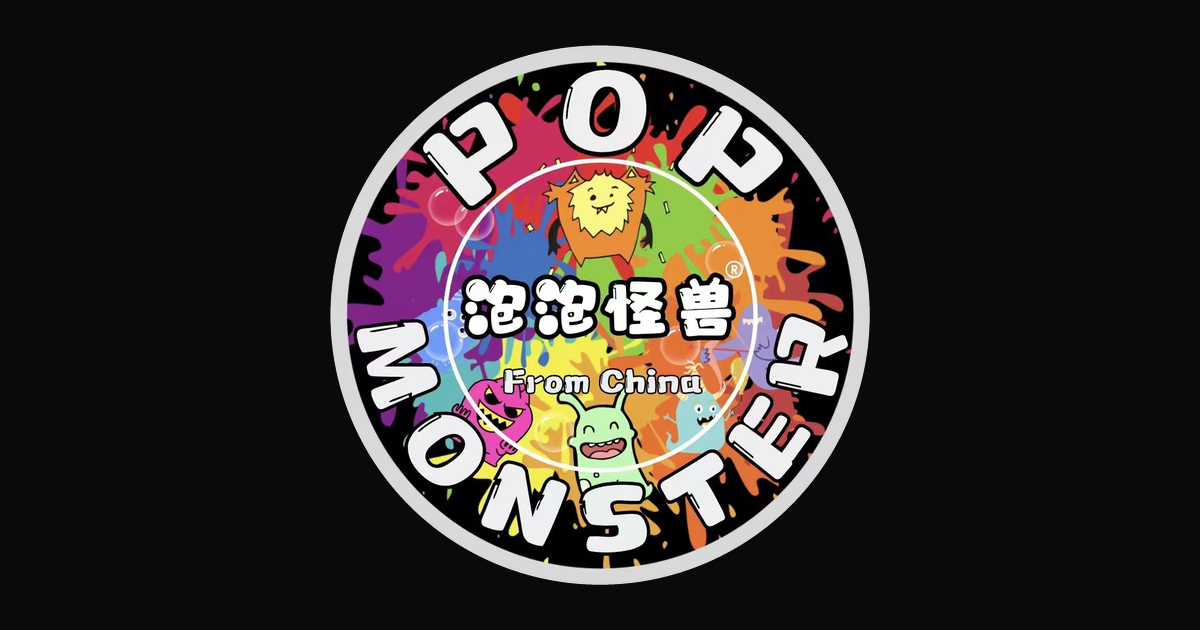
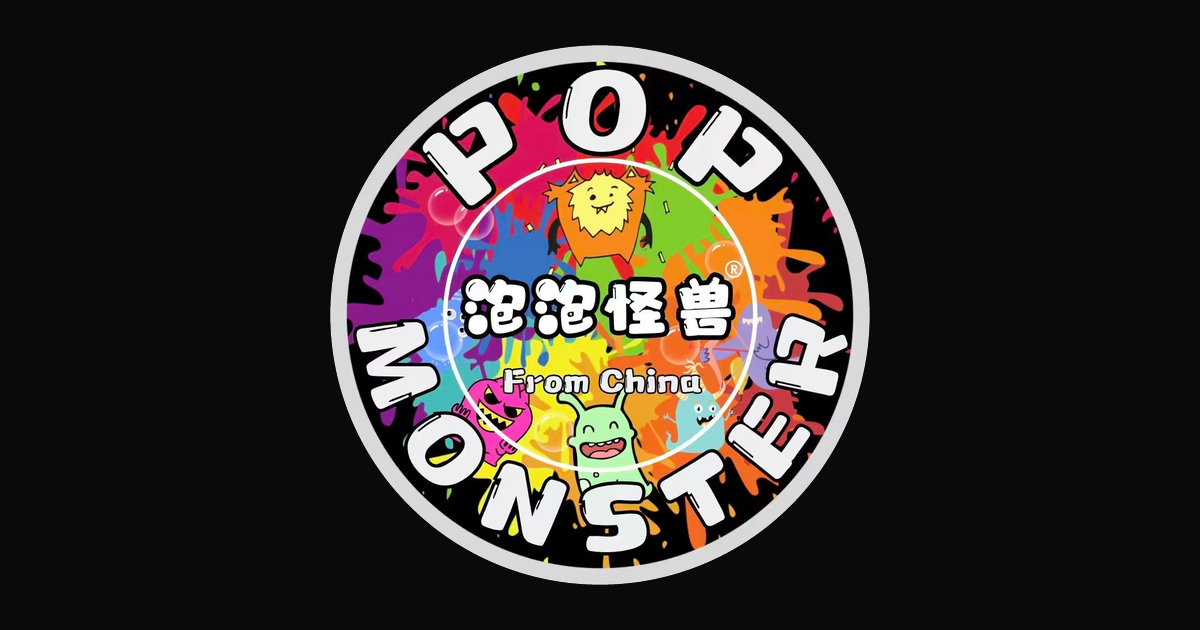
分享預覽圖：原圖顏色從 P3 換回 sRGB（修偏灰）＋徽章圓心修正半格
- 原圖存的是 Display P3 數值但沒附色彩描述檔，FB／LINE 當 sRGB 讀會偏灰；
  render.py 先換算回 sRGB，對 YouTube 頭貼每色版平均差從 −1.4／+4.0／+6.9 降到 +1.2／+1.1／+1.3
- PIL box 座標圓心要 +0.5：徽章原本往左上偏 0.3px，現在 0.04px，八個方位邊緣亮度一致
- 遮罩改用 BOX 縮回，去掉 LANCZOS 在圓邊內側的暗線
- 新增測試：分享卡 1200×630、＜200 KB、兩個舊網址內容同一張；首頁 twitter:image 指向新圖
- PROMPT.md 修正：徽章字是簡體「泡泡怪兽」、原圖約 q93～94、哪幾頁有 twitter:image、各平台頭貼尺寸
- brand-spec.md 的分享預覽圖改指新檔

diff --git a/assets/og-logo/src/render.py b/assets/og-logo/src/render.py
@@ -4,6 +4,7 @@
 輸出：img/og/og-badge-1200x630.jpg（正本）
 　　　img/og/og-logo-1200x630.jpg、根目錄 og-image-1200x630.png（舊網址，內容換成同一張，平台快取回抓也是徽章）"""
 import pathlib
+import numpy as np
 from PIL import Image, ImageDraw
 
 SRC = pathlib.Path(__file__).resolve().parent
@@ -14,13 +15,29 @@ BG = (10, 10, 10)                       # #0a0a0a 品牌手冊 PURE BLACK
 D = 540                                 # 徽章直徑
 CX, CY = W / 2, H / 2                   # 圓心放畫面正中
 
-# 原圖（1008×992 黑底）上擬合出的外圈正圓
-SRC_CX, SRC_CY, SRC_R = 497.99, 499.02, 476.32
+# 原圖（1008×992 黑底）上擬合出的外圈正圓。PIL 的 box 座標把第 i 格當成 [i, i+1]，
+# 所以像素索引擬合出的圓心 (497.99, 499.02) 要各加 0.5，不然徽章會往左上偏 0.3px、遮罩吃掉左上的邊
+SRC_CX, SRC_CY, SRC_R = 498.49, 499.52, 476.32
 PAD = 4                                 # 圓外多取幾 px，給遮罩抗鋸齒用
 MASK_INSET = 0.4                        # 遮罩內縮，避開 JPEG 在灰圈外緣的暗邊
 SS = 4                                  # 遮罩超取樣倍數
 
-src = Image.open(SRC / "brand-logo-circle-1008x992.jpg").convert("RGB")
+# 0) 原圖存的是 Display P3 的數值、但檔案裡沒附色彩描述檔，瀏覽器和 FB／LINE 都當 sRGB 讀，顏色會變灰。
+#    換算回 sRGB（兩者白點都是 D65，transfer 曲線相同，只差原色矩陣），跟 YouTube／蝦皮頭貼的顏色對得上
+P3_TO_SRGB = np.array([[1.2249401, -0.2249404, 0.0],
+                       [-0.0420569, 1.0420571, 0.0],
+                       [-0.0196376, -0.0786361, 1.0982735]])
+
+
+def p3_to_srgb(im):
+    c = np.asarray(im, dtype=np.float64) / 255
+    lin = np.where(c <= 0.04045, c / 12.92, ((c + 0.055) / 1.055) ** 2.4)
+    lin = np.clip(lin @ P3_TO_SRGB.T, 0, 1)
+    enc = np.where(lin <= 0.0031308, lin * 12.92, 1.055 * lin ** (1 / 2.4) - 0.055)
+    return Image.fromarray(np.round(enc * 255).astype(np.uint8))
+
+
+src = p3_to_srgb(Image.open(SRC / "brand-logo-circle-1008x992.jpg").convert("RGB"))
 
 # 1) 等比縮小：取「圓＋PAD」的正方形區域，LANCZOS 一次縮到位（box 用浮點座標，圓心不會偏半格）
 n = D + 2 * PAD
@@ -29,12 +46,12 @@ box = (SRC_CX - half, SRC_CY - half, SRC_CX + half, SRC_CY + half)
 assert box[0] >= 0 and box[1] >= 0 and box[2] <= src.width and box[3] <= src.height, box
 badge = src.resize((n, n), Image.LANCZOS, box=box)
 
-# 2) 圓形遮罩：4 倍大畫實心圓再縮回來 = 抗鋸齒邊
+# 2) 圓形遮罩：4 倍大畫實心圓，用 BOX 平均縮回來 = 抗鋸齒邊（LANCZOS 縮遮罩會在圓邊內側多一條淡淡的暗線）
 r = D / 2 - MASK_INSET
 big = Image.new("L", (n * SS, n * SS), 0)
 c = n * SS / 2
 ImageDraw.Draw(big).ellipse((c - r * SS, c - r * SS, c + r * SS, c + r * SS), fill=255)
-mask = big.resize((n, n), Image.LANCZOS)
+mask = big.resize((n, n), Image.BOX)
 
 # 3) 貼到底色上
 canvas = Image.new("RGB", (W, H), BG)

diff --git a/tests/test_home_extreme.py b/tests/test_home_extreme.py
@@ -1,6 +1,7 @@
 from pathlib import Path
 import json
 import re
+import struct
 import subprocess
 import unittest
 
@@ -27,9 +28,27 @@ class HomepageExtremeContract(unittest.TestCase):
         # 舊的 og-image-1200x630.png 是別的品牌（3Q貢丸）的圖；首頁預覽改用泡泡怪獸商標（彩色圓形徽章）
         self.assertIn('property="og:image" content="https://popmonster.vip/img/og/og-badge-1200x630.jpg"', self.html)
         self.assertTrue((ROOT / 'img' / 'og' / 'og-badge-1200x630.jpg').is_file())
+        self.assertIn('name="twitter:image" content="https://popmonster.vip/img/og/og-badge-1200x630.jpg"', self.html)
         self.assertRegex(self.html, r'<a[^>]+class="skip-link"[^>]+href="#main-content"')
         self.assertRegex(self.html, r'<main[^>]+id="main-content"')
         self.assertIn('aria-current="page"', self.html)
+
+    def test_share_card_size_and_old_urls_serve_the_same_badge(self):
+        # 規格見 assets/og-logo/PROMPT.md。兩個舊網址（金羽毛版 jpg、3Q貢丸時期 png）平台可能還會回抓，內容要是同一張徽章
+        card = (ROOT / 'img' / 'og' / 'og-badge-1200x630.jpg').read_bytes()
+        self.assertLess(len(card), 200 * 1024, '分享卡過大')
+        i = 2
+        while True:
+            self.assertEqual(card[i], 0xFF)
+            marker = card[i + 1]
+            if 0xC0 <= marker <= 0xCF and marker not in (0xC4, 0xC8, 0xCC):
+                height, width = struct.unpack('>HH', card[i + 5:i + 9])
+                break
+            i += 2 + struct.unpack('>H', card[i + 2:i + 4])[0]
+        self.assertEqual((width, height), (1200, 630))
+        self.assertEqual((ROOT / 'img' / 'og' / 'og-logo-1200x630.jpg').read_bytes(), card)
+        legacy = (ROOT / 'og-image-1200x630.png').read_bytes()
+        self.assertEqual(struct.unpack('>II', legacy[16:24]), (1200, 630))
 
     def test_real_brand_and_product_assets_drive_the_hero(self):
         self.assertRegex(self.html, r'class="nav-mark"[^>]+src="favicon\.svg"')

diff --git a/brand-spec.md b/brand-spec.md
@@ -36,7 +36,8 @@
 - Repository brand mark: `favicon.svg`.
 - Hero / featured product: `img/a001-main.jpg` with responsive source `img/a001-main-480.jpg`.
 - Product catalogue assets: existing `img/a*-main.jpg` files only; no hotlinks or synthetic silhouettes.
-- Social preview: `og-image-1200x630.png`.
+- Brand logo: the colorful round POP MONSTER badge (`assets/og-logo/src/brand-logo-circle-1008x992.jpg`).
+- Social preview: `img/og/og-badge-1200x630.jpg` (the badge on `#0a0a0a`; spec in `assets/og-logo/PROMPT.md`). `og-image-1200x630.png` and `img/og/og-logo-1200x630.jpg` are old URLs that now serve the same image.
 
 ## Copy and trust rules
 
